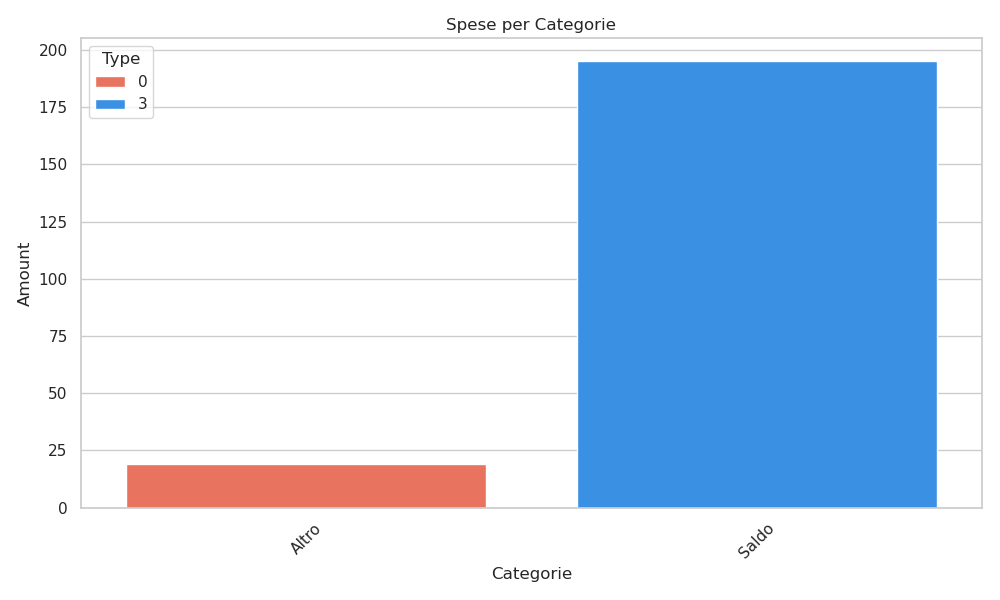
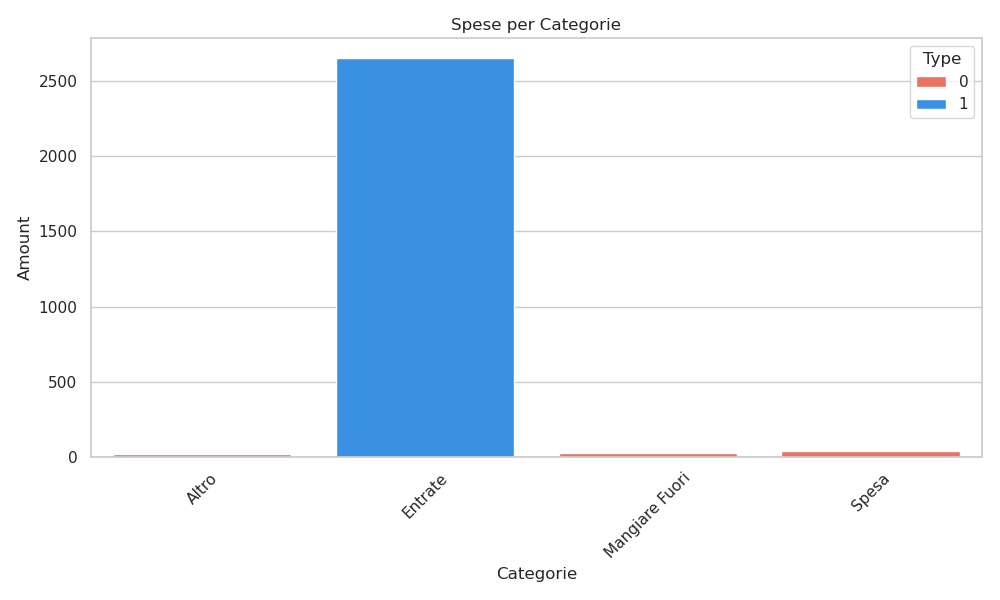
miglioro il main

diff --git a/wallet.py b/wallet.py
@@ -257,7 +257,7 @@ class Wallet:
             self.df[self.df["Y"] == self.df["Y"].max()]["M"].max(),
         )
 
-    def plot(self):
+    def plot(self, show=True):
         # plotta istogramma con colori diversi tra entrate e uscite
 
         # prendi solo il valore assoluto
@@ -284,9 +284,14 @@ class Wallet:
         plt.xticks(rotation=45)
         plt.tight_layout()
         plt.savefig("./plots/category_bar_plot.png")
-        plt.show()
 
-    def plot_time(self):
+        # non voglio farlo vedere neanche se plt.show() è chiamato in seguito ad altre funzioni
+        if show:
+            plt.show()
+        else:
+            plt.close()
+
+    def plot_time(self, show=True):
         temp_df = self.df.copy()
         temp_df["Amount"] = temp_df["Amount"].abs()
         # plotta andamento temporale delle entrate e delle uscite con istogramma mensile ma che tiene conto degli anni
@@ -320,45 +325,12 @@ class Wallet:
         plt.xticks(rotation=45)
         plt.tight_layout()
         plt.savefig("./plots/time_bar_plot.png")
-        plt.show()
+        if show:
+            plt.show()
+        else:
+            plt.close()
 
-    def plot_time_line(self):
-        temp_df = self.df.copy()
-        temp_df["Amount"] = temp_df["Amount"].abs()
-        # plotta andamento temporale delle entrate e delle uscite con istogramma mensile ma che tiene conto degli anni
-        temp_df = temp_df.groupby(["M", "Y", "Type"])["Amount"].sum().reset_index()
-        temp_df = temp_df.sort_values(by=["Y", "M"])
-
-        # plot considerando anche gli anni, quindi il 3 gennaio 2022 è diverso dal 3 gennaio 2023
-        # crea una colonna con la data completa
-        temp_df["Date"] = temp_df["Y"].astype(str) + "-" + temp_df["M"].astype(str)
-        temp_df["Date"] = pd.to_datetime(temp_df["Date"], format="%Y-%m")
-        temp_df = temp_df.sort_values(by="Date")
-
-        # cancella il giorno dalla data
-        temp_df["Date"] = temp_df["Date"].dt.to_period("M")
-
-        # disegna il plot con lineplot marcando i punti dove ci sono le spese
-
-        sns.set_theme(style="whitegrid")
-        plt.figure(figsize=(10, 6))
-        sns.lineplot(
-            x="Date",
-            y="Amount",
-            data=temp_df,
-            hue="Type",
-            palette=["#FF6347", "#1E90FF"],
-        )
-        # controlla che categoria siano presenti
-
-        plt.title("Spese nel Tempo")
-        plt.xlabel("Date")
-        plt.ylabel("Amount")
-        plt.xticks(rotation=45)
-        plt.tight_layout()
-        plt.show()
-
-    def plot_pie(self):
+    def plot_pie(self, show=True):
         # plotta un grafico a torta con le entrate e le uscite
         # se ci sono sia entrate che uscite
         if (self.income + self.inital_saldo_in) != 0 and (
@@ -377,14 +349,20 @@ class Wallet:
             )
             plt.title("Entrate e Uscite")
             plt.savefig("./plots/in_out_pie_plot.png")
-            plt.show()
+            if show:
+                plt.show()
+            else:
+                plt.close()
         elif (self.outcome + self.inital_saldo_out) == 0:
             # fare un grafico a torta solo con le entrate con una torta piena al 100%
             plt.figure(figsize=(10, 6))
             plt.pie([1], labels=["Income"], autopct="%1.1f%%", colors=["#1E90FF"])
             plt.title("Entrate e Uscite")
             plt.savefig("./plots/in_out_pie_plot.png")
-            plt.show()
+            if show:
+                plt.show()
+            else:
+                plt.close()
 
         elif (self.income + self.inital_saldo_in) == 0:
             # fare un grafico a torta solo con le uscite con una torta piena al 100%
@@ -392,9 +370,12 @@ class Wallet:
             plt.pie([1], labels=["Outcome"], autopct="%1.1f%%", colors=["#FF6347"])
             plt.title("Entrate e Uscite")
             plt.savefig("./plots/in_out_pie_plot.png")
-            plt.show()
+            if show:
+                plt.show()
+            else:
+                plt.close()
 
-    def plot_pie_with_all_categories(self):
+    def plot_pie_with_all_categories(self, show=True):
         # plotta un grafico a torta con tutte le categorie diverse di spese
         temp_df = self.df.copy()
         temp_df["Amount"] = temp_df["Amount"].abs()
@@ -416,9 +397,12 @@ class Wallet:
         )
         plt.title("Spese per Categorie")
         plt.savefig("./plots/category_pie_plot.png")
-        plt.show()
+        if show:
+            plt.show()
+        else:
+            plt.close()
 
-    def plot_pie_conto(self):
+    def plot_pie_conto(self, show=True):
         # plotta un grafico a torta con tutte le categorie diverse di spese
         temp_df = self.df.copy()
         temp_df["Amount"] = temp_df["Amount"].abs()
@@ -440,7 +424,10 @@ class Wallet:
         )
         plt.title("Spese per Conto")
         plt.savefig("./plots/conto_pie_plot.png")
-        plt.show()
+        if show:
+            plt.show()
+        else:
+            plt.close()
 
     def __repr__(self) -> str:
         return self.df.__repr__()

diff --git a/main.py b/main.py
@@ -1,30 +1,32 @@
-from GUI import *
-from wallet import *
 import os
 
-# crea un objeto della classe Wallet
-wallet = Wallet()
+from GUI import *
+from wallet import *
+
 
 # legge i dati dal file csv
 dir_path = os.path.dirname(os.path.realpath(__file__))
-wallet_path = os.path.join(dir_path, "dati", "wallet.csv")
+wallet_path = os.path.join(dir_path, "dati", "my_wallet.csv")
 
 # plotta i dati del mese corrente
 now = datetime.now()
-
 df = pd.read_csv(wallet_path)
 
 df = df[df["M"] == int(now.month)]
 df = df[df["Y"] == int(now.year)]
 
 df = df.reset_index(drop=True)
-# w = Wallet()
-# w.read_df(df)
-# w.plot()
-# w.plot_time()
-# w.plot_pie()
-# w.plot_pie_with_all_categories()
+w = Wallet()
+w.read_df(df)
+w.plot(show=False)
+w.plot_time(show=False)
+w.plot_pie(show=False)
+w.plot_pie_with_all_categories(show=False)
 
+del df, w
+
+# crea un objeto della classe Wallet
+wallet = Wallet()
 
 # se il percorso del file esiste, legge i dati
 if os.path.exists(wallet_path):

diff --git a/GUI.py b/GUI.py
@@ -5,7 +5,6 @@ from tkinter import filedialog
 import os
 from datetime import datetime
 import pandas as pd
-from cycler import cycler
 from wallet import Wallet
 
 
@@ -895,8 +894,6 @@ class WalletGUI:
     def plot_static(self):
         expenses = self.expenses_show
         # escludi la categoria "Giroconto"
-
-        print(expenses)
 
         new_wallet = Wallet()
         new_wallet.read_df(expenses[expenses["Category"] != "Giroconto"])
